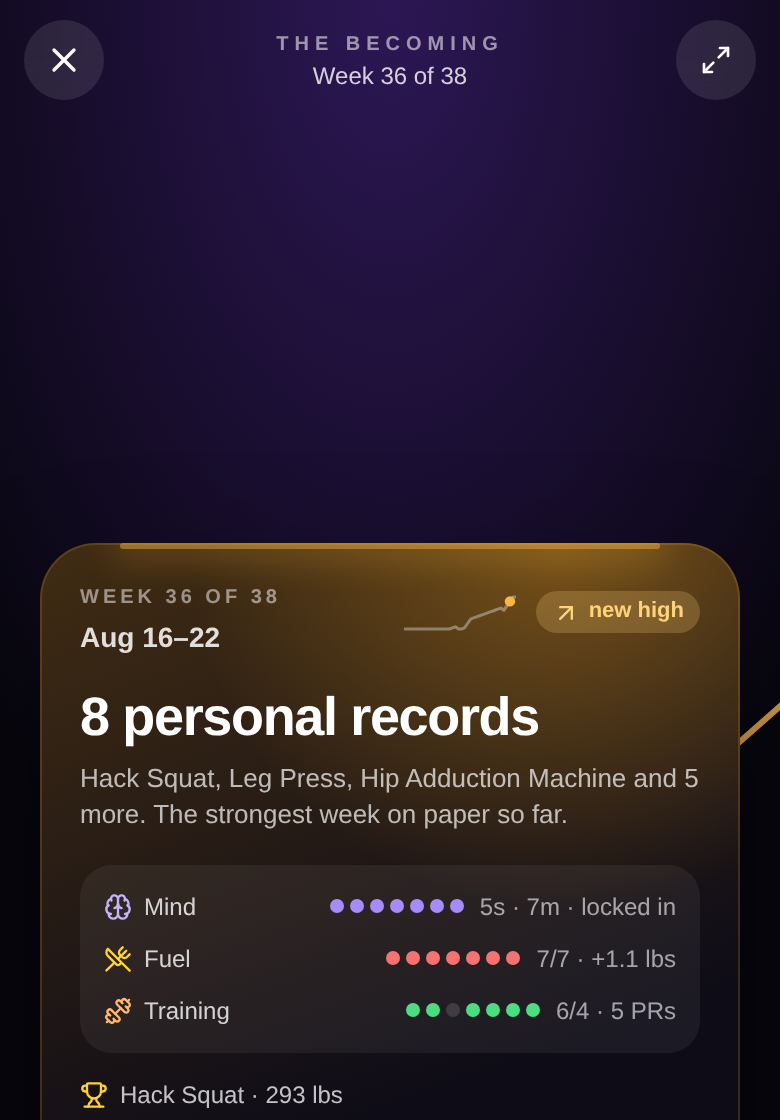
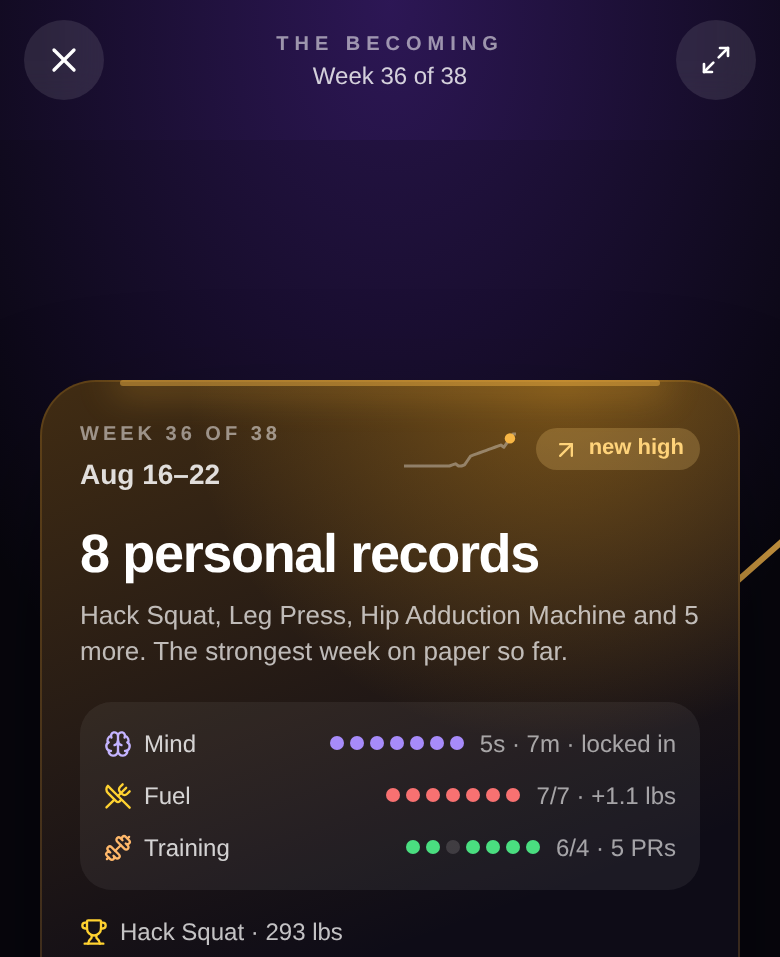
feat(marketing): THE MIND IS THE MUSCLE carousel (mind deck) + recap lift
6 slides on the locked template: cover (Jon's hub, 9/50 · Lv 3 · Ch.1, check-in
grid behind), THE PATH (50 sessions, 5 chapters quoted from mindXP), THE
SESSION trio (check-in grid / Bank a win / Decided. Now go.), TRAINING GROUNDS
trio (State Shift / grid / Self-Image), EVERYTHING (Becoming card), CTA.
Also lifts The Becoming card on next/04-recap (less canvas above it), and
moves the capture helpers to CJS so NODE_PATH resolution works.

diff --git a/marketing/.claude/skills/carousel-editing/SKILL.md b/marketing/.claude/skills/carousel-editing/SKILL.md
@@ -144,9 +144,8 @@ In the order they decide the outcome.
 ### 3. Captures without writes
 
 **Check for:**
-- A session minted through the app's own flow: `marketing/scripts/capture/redeem-session.mjs`
+- A session minted through the app's own flow: `marketing/scripts/capture/redeem-session.cjs`
   after a POST to `/api/auth/send-link`, redeemed by the returned sessionId. The magic-link
-  collection lives in the app database, not the auth database; `marketing/scripts/capture/mint-session.mjs`
   documents the direct-insert route and why it 400s against the wrong database.
 - Every capture through `marketing/scripts/capture/shoot.cjs`: 390px wide at DPR 2, the GET-only
   route guard on, fixed chrome hidden. Pages stamp records on load (the check-in "shown" POST,
